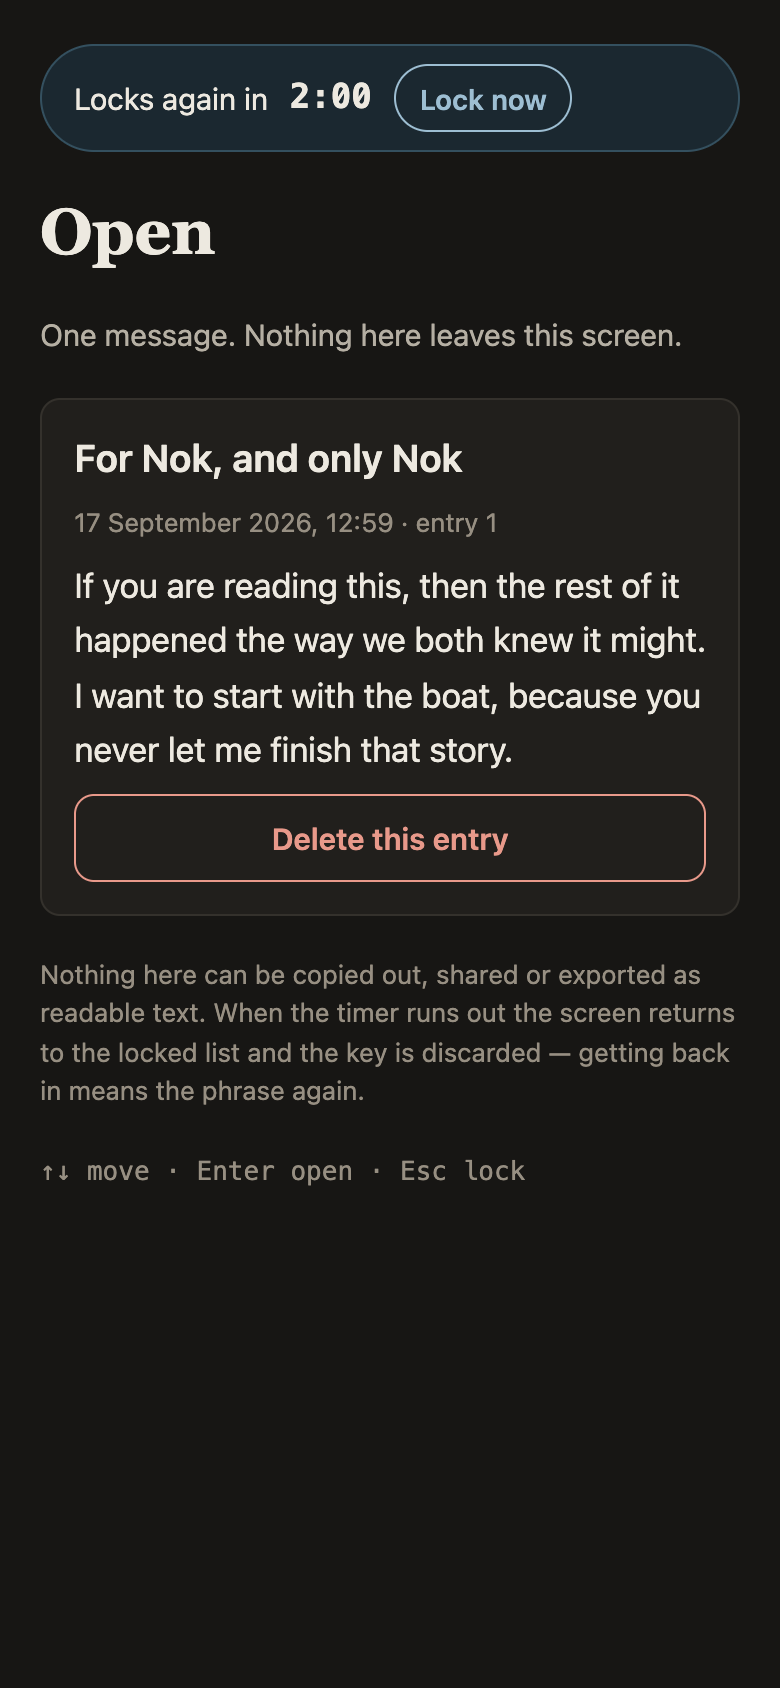
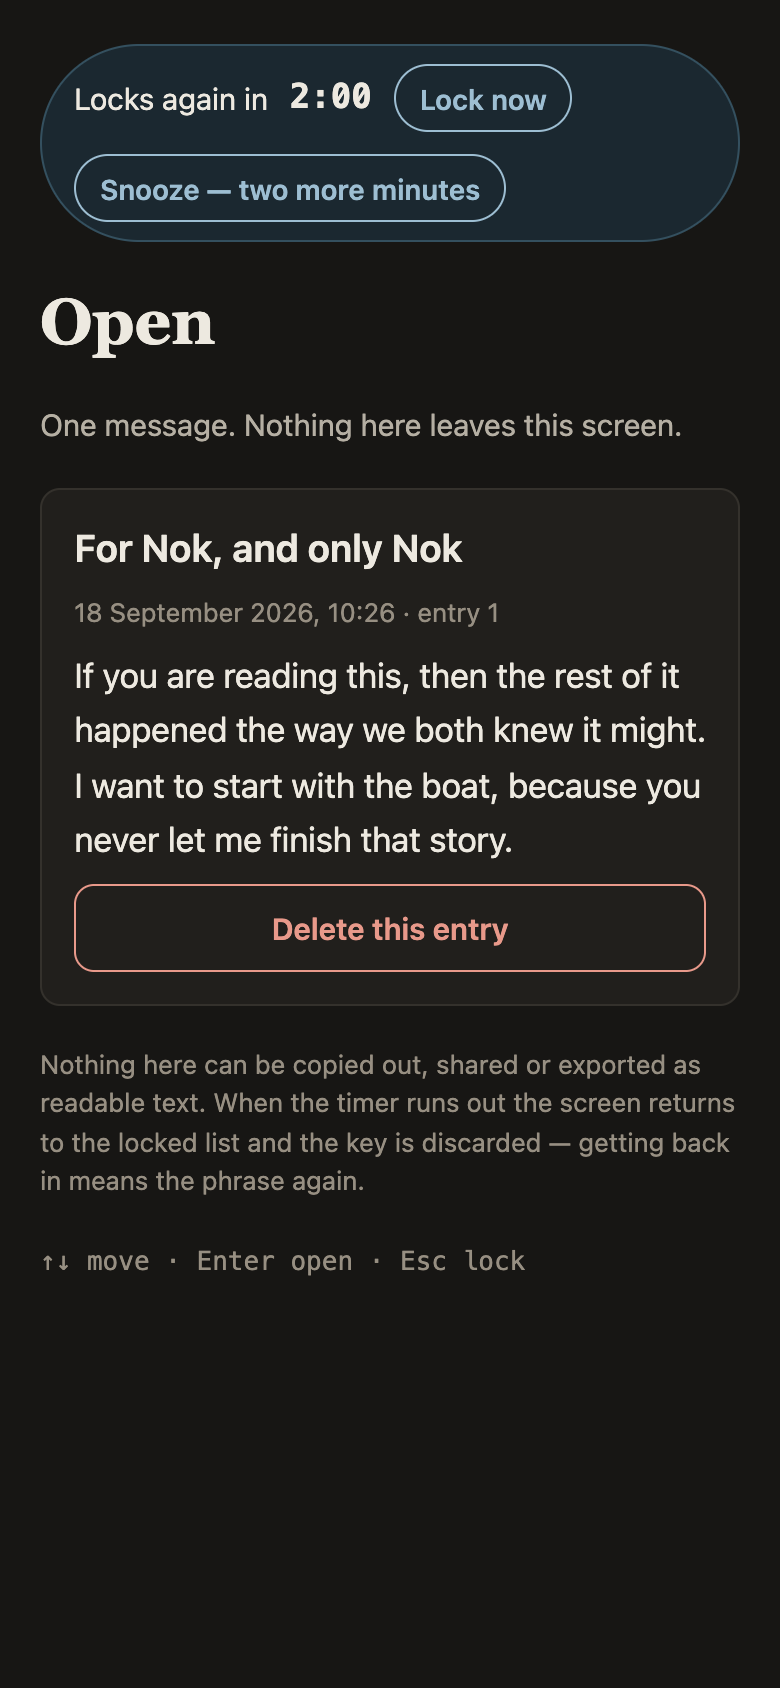
Bring the README up to date with multiple vaults, nicknames and Snooze
The README described a one-vault app. It now covers the picker a device boots into once a
vault exists, the cap of three, nicknames and why they are kept out of the backup file, the
Snooze button on the read screen, what backgrounding does to setup in progress, and the one
case in which the service worker adopts an update on its own. The screenshot walk names the
vault and captures the picker, and every screenshot is regenerated from the current build.

Claude-Session: https://claude.ai/code/session_01WRMXAGg2G862QkEbW4owQH

diff --git a/README.md b/README.md
@@ -31,6 +31,9 @@ dignified, slow, and honest about what it cannot do.
 - **No trigger.** It cannot know you have died. Someone has to be given the words.
 - **Two secrets, if you want them.** An optional passphrase lets you give the words to one person
   and the passphrase to another, so neither can read anything alone.
+- **Up to three vaults on one device**, each with its own twenty-four words and its own messages —
+  one for a partner, one for the executor, one for whoever it turns out to be. A vault can carry a
+  nickname, which stays on the device and is never written into a backup.
 - **English and Thai**, light and dark, offline for as long as the device keeps working.
 
 It is deliberately boring, and built to outlast whoever made it.
@@ -75,6 +78,17 @@ created until you have proved the words left the screen and reached paper or met
 The everyday state shows a count, an order and a rough size. No previews, because there is nothing
 to preview — the app genuinely cannot read what is there. Writing asks for nothing.
 
+### More than one vault
+
+| The picker | Naming one |
+|---|---|
+| ![Vault picker](docs/screenshots/17-vaults.png) | ![Settings, with a nickname](docs/screenshots/15-settings.png) |
+
+A device with any vault on it boots into this screen. Each row is a vault — nickname if it has one,
+fingerprint always, the day it was made. Below: create another, or import one from a backup file.
+Both go quiet at three. A vault's nickname is set in its Settings and lives only on that device: the
+backup file must not say what a vault is for, so it does not carry the name.
+
 ### Reading
 
 | Type the words | Or tap a metal plate |
@@ -86,8 +100,10 @@ to preview — the app genuinely cannot read what is there. Writing asks for not
 | ![Read view](docs/screenshots/12-read.png) | ![Backgrounded](docs/screenshots/13-backgrounded.png) |
 
 Three input modes, one validator: type them, tap the punched squares off a TinySeed plate, or enter
-the numbers. The moment the app leaves the foreground, the decrypted text is **removed from the
-page** and the key is destroyed.
+the numbers. A visible clock counts down from the moment the vault opens; **Snooze** buys two more
+minutes, as often as needed, for as long as the screen stays open — scrolling and tapping buy
+nothing. The moment the app leaves the foreground, the decrypted text is **removed from the page**
+and the key is destroyed.
 
 ### The printed plate template
 
@@ -170,7 +186,8 @@ Plaintext is framed and zero-padded to a 1 KB, 4 KB or 16 KB bucket, so cipherte
 only the bucket. Exact timestamps are inside the sealed payload; only day granularity is stored in
 clear. An attacker with the device or a backup file learns how many messages exist, roughly how long
 they are, and which days they were written. Nothing else — not a recipient, not a subject, not a
-word.
+word. A vault's nickname is deliberately left out of the backup file for the same reason; it exists
+only in the device's own storage.
 
 ### Where secrets live, and how they stop living
 
@@ -184,8 +201,13 @@ Zeroing is still done everywhere, as belt.
 
 Locking happens on `visibilitychange`, on `pagehide`, on Escape from anywhere, on desktop window
 blur, and on a visible countdown that starts when the vault opens and is not extended by scrolling
-or tapping. Backgrounding also empties the DOM — the content is removed, not blurred or covered,
-so it cannot appear in a task-switcher thumbnail.
+or tapping — only by a deliberate Snooze. Backgrounding also empties the DOM — the content is
+removed, not blurred or covered, so it cannot appear in a task-switcher thumbnail. The one
+exception: while the backup or restore screen has a share sheet or file chooser open, which Android
+reports as the page going hidden, blanking is held off — those two screens hold nothing decrypted.
+
+Setup is treated the same way. Backgrounding while the twenty-four words are on screen wipes them
+and starts the phrase again; the acknowledgements already ticked survive, and the screen says why.
 
 Phrase fields are never `<input type="password">`: a password field makes the browser and every
 password manager offer to remember the phrase, which is precisely what must not happen. They carry
@@ -199,8 +221,9 @@ no name and have autocomplete, autocorrect, autocapitalise and spellcheck off.
 - Every dependency vendored, pinned and committed unminified so it stays auditable. No CDN, no WASM.
 - No `innerHTML`, no `eval`, no template strings of markup anywhere — the DOM is built node by node
   with `textContent`, so there is nothing for an injection to ride in on.
-- A service worker that caches offline but **never activates a new version on its own**. An update
-  waits until someone approves it, on a screen showing both release hashes.
+- A service worker that caches offline but **never activates a new version on its own while a vault
+  exists**. An update waits until someone approves it, on a screen showing both release hashes. With
+  no vault on the device there is nothing to protect, and a newer worker is adopted at once.
 - `node tools/build.mjs` publishes a SHA-256 per file and one release hash, which the app shows in
   Settings so it can be compared against what is published. The manifest verifies with stock tools:
   `grep -v '^release ' SHA256SUMS | shasum -a 256 -c`
@@ -230,7 +253,7 @@ js/
   keyworker.js          the only place private keys exist
   keys.js               main-thread handle on that worker; terminate() is the wipe
   codec.js              zeroing, constant-time compare, base64, AAD, padded plaintext frame
-  db.js                 IndexedDB "dm" v1
+  db.js                 IndexedDB "dm" v2 — up to three vaults, every entry stamped with its vault
   i18n.js, strings.js   EN + TH catalogues, Buddhist-era dates, Arabic digits everywhere
   dom.js, ui.js         textContent-only DOM building; the component library
   phrase-entry.js       three input modes, one validator
